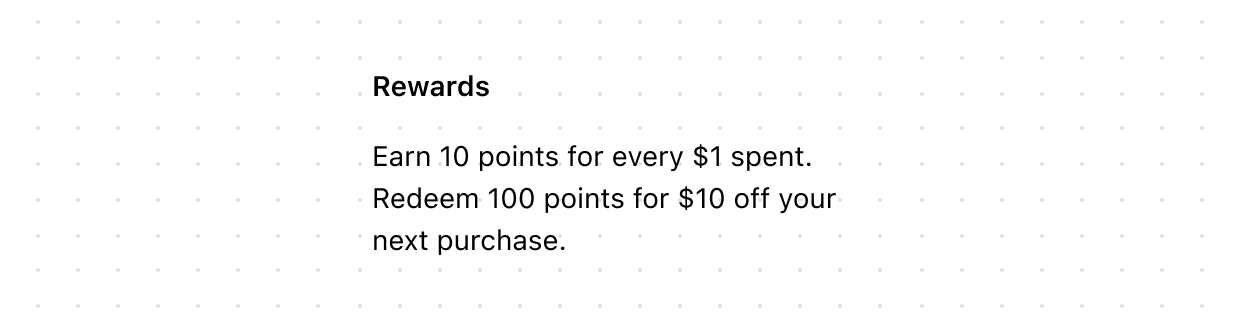
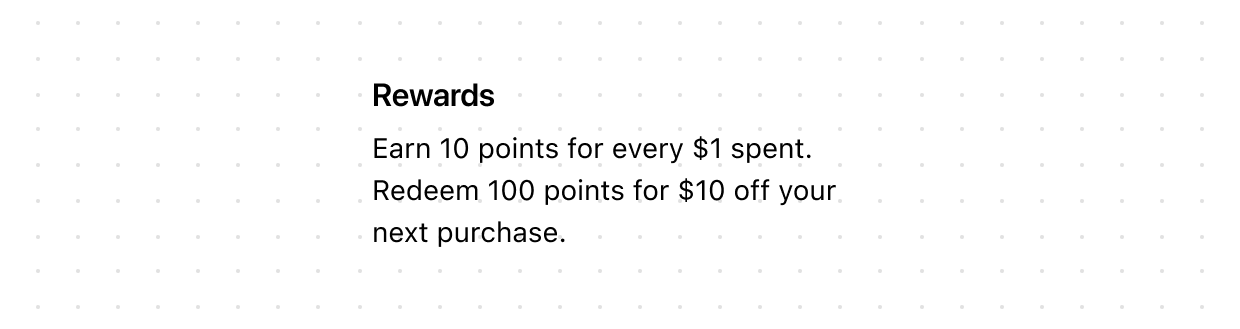
section image updates and dropzone

diff --git a/packages/ui-extensions/src/surfaces/checkout/components/DropZone/DropZone.doc.ts b/packages/ui-extensions/src/surfaces/checkout/components/DropZone/DropZone.doc.ts
@@ -48,13 +48,13 @@ File storage for uploads must be implemented separately. Metafields and the corr
 
 Remember that the drag and drop feature won’t be effective on mobile devices. Adding a button can offer additional context and guide users through the next steps.
 
-<img src='/assets/templated-apis-screenshots/checkout-ui-extensions/unstable/dropzone-mobile-example.png' alt="An example showing DropZone with custom content optimized for mobile devices" />
+<img src='/assets/landing-pages/templated-apis/checkout-ui-extensions/ui-components/dropzone-mobile-example.png' alt="An example showing DropZone with custom content optimized for mobile devices" />
 
 ### Minimum size
 
 To prevent cut-off text and spacing issues, the minimum size of a Dropzone should be 100px by 100px.
 
-<img src='/assets/templated-apis-screenshots/checkout-ui-extensions/unstable/dropzone-minimum-size.png' alt="An example showing DropZone with correct minimum size" />
+<img src='/assets/landing-pages/templated-apis/checkout-ui-extensions/ui-components/dropzone-minimum-size.png' alt="An example showing DropZone with correct minimum size" />
       `,
     },
   ],
